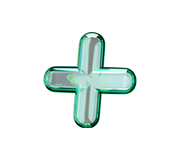
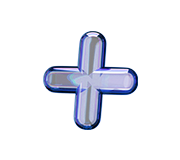
헤더 섹션 이미지 및 버튼 수정

Changed region(s): [[0.2222, 0.1875, 0.7778, 0.8125]]

diff --git a/resources/views/staking/staking.blade.php b/resources/views/staking/staking.blade.php
@@ -6,7 +6,7 @@
     <h6 class="text-white mb-4 px-1">{{ __('staking.staking') }}</h6>
     <div class="m-0 px-1">
         <a href="{{ route('staking.detail') }}">
-            <h5 class="btn btn-primary border-0 m-0 text-black" style="background: linear-gradient(to right, #00f2bc, #67eff9);">{{ __('staking.participation_list') }}</h5>
+            <h5 class="btn btn-header text-white border-0 m-0">{{ __('staking.participation_list') }}</h5>
         </a>
     </div>
 </header>

diff --git a/resources/views/income/deposit.blade.php b/resources/views/income/deposit.blade.php
@@ -7,7 +7,7 @@
     <h6 class="text-white mb-4 px-1">{{ __('asset.internal_transfer') }}</h6>
     <div class="m-0 px-1">
         <a href="{{ route('income.deposit.list') }}">
-            <h5 class="btn btn-primary border-0 m-0 text-black" style="background: linear-gradient(to right, #00f2bc, #67eff9);">{{ __('asset.transfer_list') }}</h5>
+            <h5 class="btn btn-header text-white border-0 m-0">{{ __('asset.transfer_list') }}</h5>
         </a>
     </div>
 </header>

diff --git a/resources/views/income/withdrawal.blade.php b/resources/views/income/withdrawal.blade.php
@@ -7,7 +7,7 @@
     <h6 class="text-white mb-4 px-1">{{ __('asset.withdrawal') }}</h6>
     <div class="m-0 px-1">
         <a href="{{ route('income.withdrawal.list') }}">
-            <h5 class="btn btn-primary border-0 m-0 text-black" style="background: linear-gradient(to right, #00f2bc, #67eff9);">{{ __('asset.withdrawal_list') }}</h5>
+            <h5 class="btn btn-header text-white border-0 m-0">{{ __('asset.withdrawal_list') }}</h5>
         </a>
     </div>
 </header>

diff --git a/resources/views/asset/withdrawal.blade.php b/resources/views/asset/withdrawal.blade.php
@@ -7,7 +7,7 @@
     <h6 class="text-white mb-4 px-1">{{ __('asset.withdrawal') }}</h6>
     <div class="m-0 px-1">
         <a href="{{ route('asset.withdrawal.list') }}">
-            <h5 class="btn btn-primary border-0 m-0 text-black" style="background: linear-gradient(to right, #00f2bc, #67eff9);">{{ __('asset.withdrawal_list') }}</h5>
+            <h5 class="btn btn-header text-white border-0 m-0">{{ __('asset.withdrawal_list') }}</h5>
         </a>
     </div>
 </header>

diff --git a/resources/views/asset/deposit.blade.php b/resources/views/asset/deposit.blade.php
@@ -6,7 +6,7 @@
     <h6 class="text-white mb-4 px-1">{{ __('asset.deposit') }}</h6>
     <div class="m-0 px-1">
         <a href="{{ route('asset.deposit.list') }}">
-            <h5 class="btn btn-primary border-0 m-0 text-black" style="background: linear-gradient(to right, #00f2bc, #67eff9);">{{ __('asset.deposit_list') }}</h5>
+            <h5 class="btn btn-header text-white border-0 m-0">{{ __('asset.deposit_list') }}</h5>
         </a>
     </div>
 </header>

diff --git a/resources/views/mining/mining.blade.php b/resources/views/mining/mining.blade.php
@@ -6,7 +6,7 @@
     <h6 class="text-white mb-4 px-1">{{ __('mining.mining') }}</h6>
     <div class="m-0 px-1">
         <a href="{{ route('mining.list') }}">
-            <h5 class="btn btn-primary border-0 m-0 text-black" style="background: linear-gradient(to right, #00f2bc, #67eff9);">{{ __('mining.mining_list') }}</h5>
+            <h5 class="btn btn-header text-white border-0 m-0">{{ __('mining.mining_list') }}</h5>
         </a>
     </div>
 </header>
